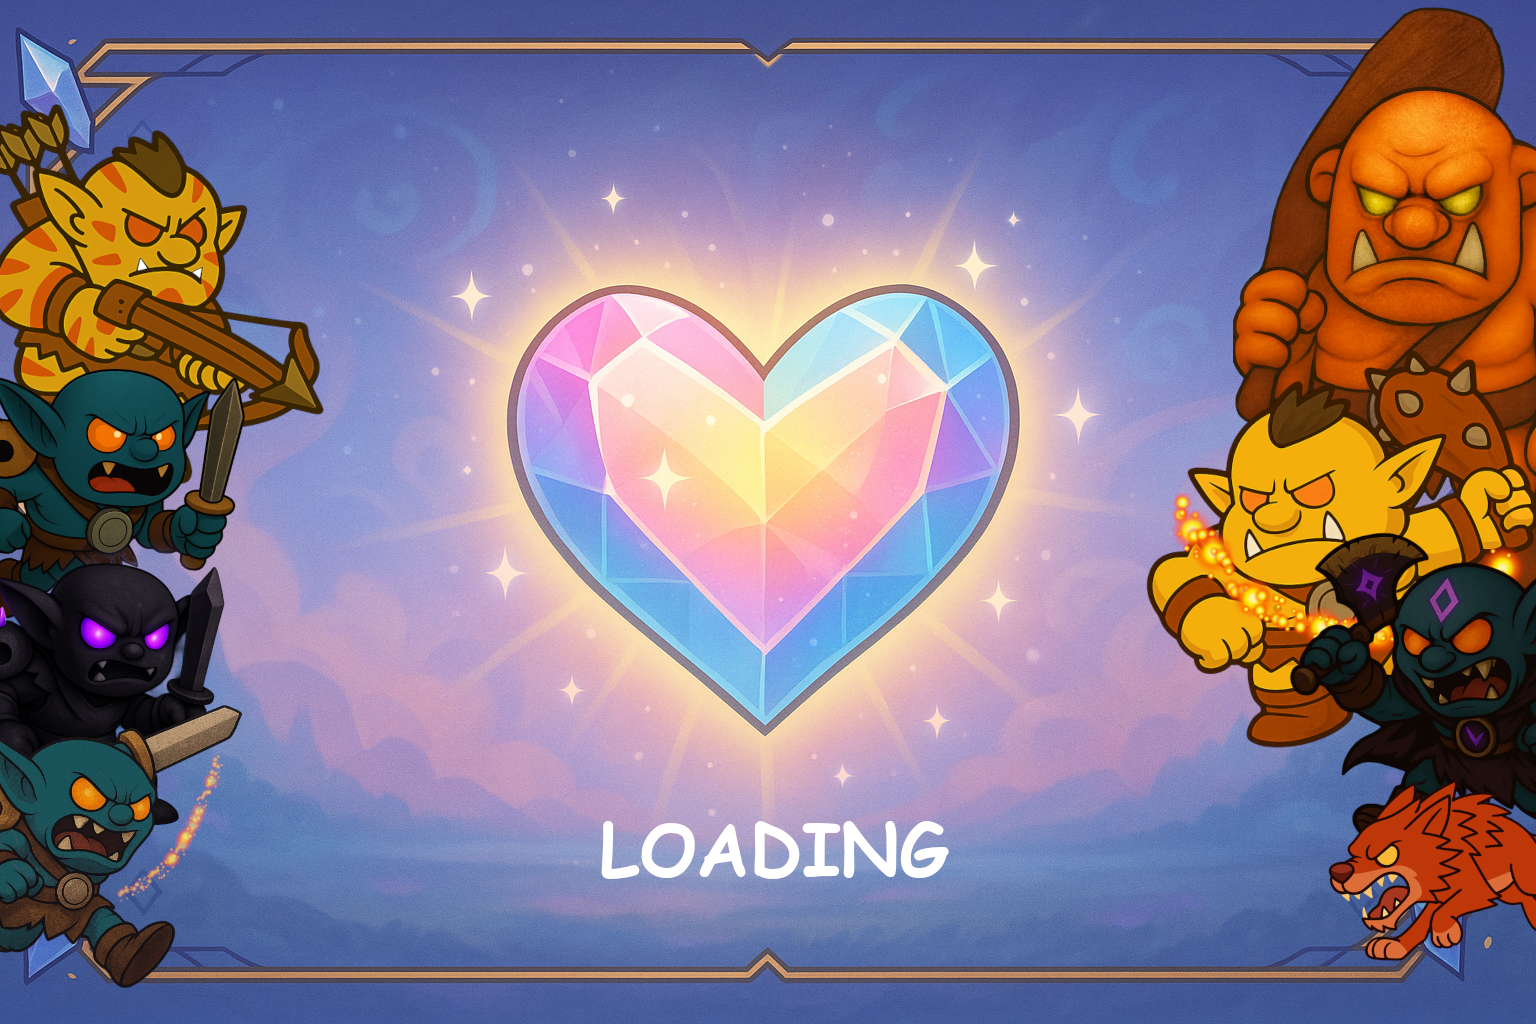
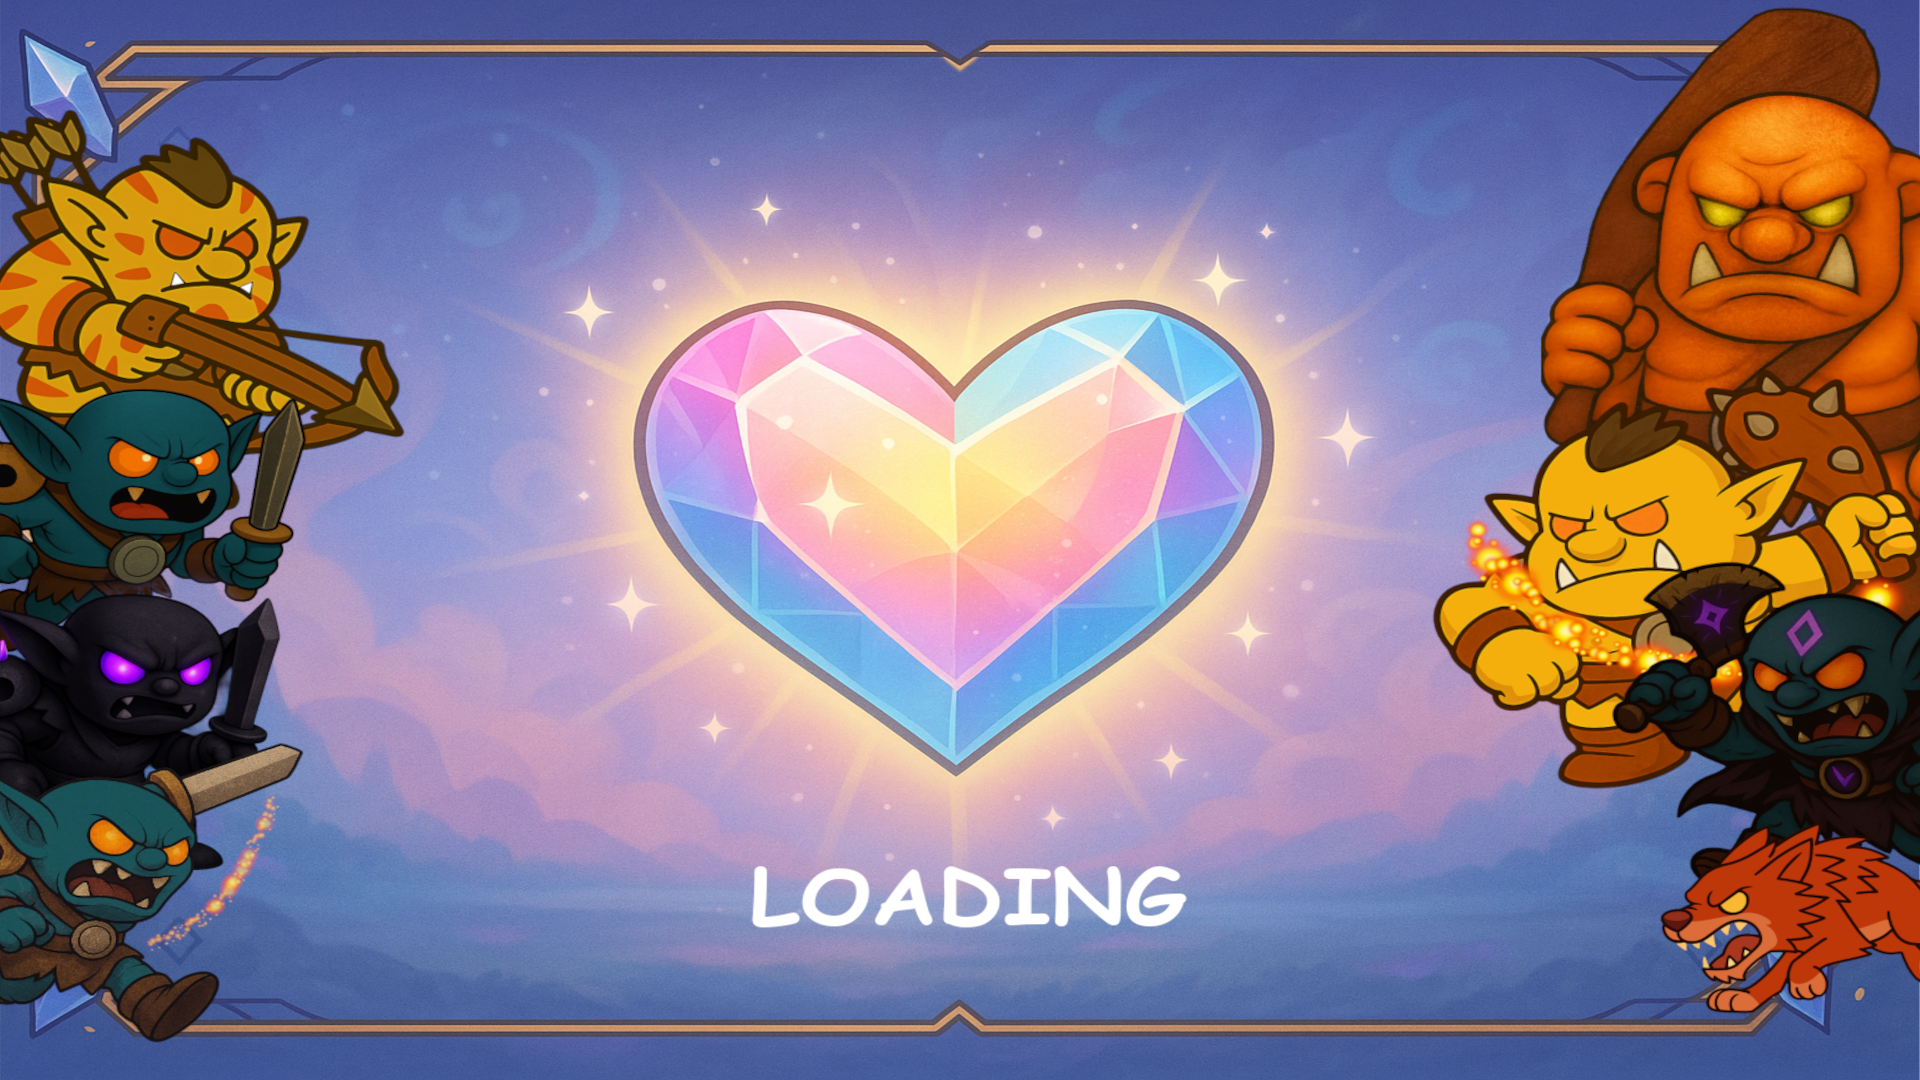
loading screen added

diff --git a/main.js b/main.js
@@ -50,6 +50,9 @@ export let gameActive = false;
 let lastTimestamp = 0;
 let accumulator = 0;
 const FIXED_DT = 1000 / 60;
+const MIN_LOADING_OVERLAY_MS = 2000;
+let loadingOverlayUsers = 0;
+const wait = (ms = 0) => new Promise((res) => setTimeout(res, ms));
 
 // ============================================================
 // 🎯 MAIN GAME LOOP
@@ -74,14 +77,49 @@ function gameLoop(timestamp) {
   window.__gameLoopID = requestAnimationFrame(gameLoop);
 }
 
-function showLoadingOverlay() {
-  const el = document.getElementById("game-loading-overlay");
-  if (el) el.style.display = "flex";
+function getLoadingOverlay() {
+  return document.getElementById("game-loading-overlay");
 }
 
-function hideLoadingOverlay() {
-  const el = document.getElementById("game-loading-overlay");
-  if (el) el.style.display = "none";
+export function showLoadingOverlay() {
+  loadingOverlayUsers += 1;
+  const overlay = getLoadingOverlay();
+  const startedAt = performance.now();
+
+  if (overlay) {
+    overlay.style.display = "flex";
+  }
+
+  return startedAt;
+}
+
+export async function hideLoadingOverlay(
+  startedAt = performance.now(),
+  minDuration = MIN_LOADING_OVERLAY_MS
+) {
+  const elapsed = performance.now() - startedAt;
+  if (elapsed < minDuration) {
+    await wait(minDuration - elapsed);
+  }
+
+  loadingOverlayUsers = Math.max(loadingOverlayUsers - 1, 0);
+
+  if (loadingOverlayUsers === 0) {
+    const overlay = getLoadingOverlay();
+    if (overlay) {
+      overlay.style.display = "none";
+    }
+  }
+}
+
+export async function withLoadingOverlay(task, minDuration = MIN_LOADING_OVERLAY_MS) {
+  const startedAt = showLoadingOverlay();
+
+  try {
+    return await task();
+  } finally {
+    await hideLoadingOverlay(startedAt, minDuration);
+  }
 }
 
 // ============================================================
@@ -122,20 +160,19 @@ function seedMagicSparkles() {
 // ============================================================
 
 export async function startGameWithPreload(mode = "new") {
-  showLoadingOverlay();
+  await withLoadingOverlay(async () => {
+    // 🔥 ensure preloadAllAssets() runs if not triggered yet
+    preloadAllAssets();
 
-  // 🔥 ensure preloadAllAssets() runs if not triggered yet
-  preloadAllAssets();
+    // 🔄 Wait until preload is fully done
+    while (!isPreloadComplete()) {
+      await wait(50);
+    }
 
-  // 🔄 Wait until preload is fully done
-  while (!isPreloadComplete()) {
-    await new Promise(res => setTimeout(res, 50));
-  }
+    // ⭐ Proceed to load actual map
+    await initGame(mode);
+  });
 
-  // ⭐ Proceed to load actual map
-  await initGame(mode);
-
-  hideLoadingOverlay();
   startGameplay();
 }
 

diff --git a/screenManagement/hub.js b/screenManagement/hub.js
@@ -23,7 +23,8 @@ import {
   gameActive,
   stopGameplay,
   fullNewGameReset,
-  startNewGameStory
+  startNewGameStory,
+  withLoadingOverlay
 } from "../main.js";
 
 import {
@@ -151,14 +152,16 @@ export function initHub() {
         gameState.profile.progress.currentMap = targetMap;
       }
 
-      showScreen("game-container");
+      await withLoadingOverlay(async () => {
+        showScreen("game-container");
 
-      const gameMod = await import("../core/game.js");
-      await gameMod.initGame("load");
+        const gameMod = await import("../core/game.js");
+        await gameMod.initGame("load");
 
-      applySnapshot(snap);
-      ensureSkin(gameState.player);
-      saveProfiles();
+        applySnapshot(snap);
+        ensureSkin(gameState.player);
+        saveProfiles();
+      });
 
       startGameplay?.();
   });
@@ -242,14 +245,16 @@ export function initHub() {
       ov.style.display = "none";
     }
 
-    showScreen("game-container");
+    await withLoadingOverlay(async () => {
+      showScreen("game-container");
 
-    const gameMod = await import("../core/game.js");
-    await gameMod.initGame("load");
+      const gameMod = await import("../core/game.js");
+      await gameMod.initGame("load");
 
-    applySnapshot(snap);
-    ensureSkin(gameState.player);
-    saveProfiles();
+      applySnapshot(snap);
+      ensureSkin(gameState.player);
+      saveProfiles();
+    });
 
     startGameplay?.();
   };

diff --git a/screenManagement/navbar.js b/screenManagement/navbar.js
@@ -41,7 +41,7 @@
 // ------------------------------------------------------------ 
 
 import { playFairySprinkle } from "../core/soundtrack.js";
-import { stopGameplay, resetGameplay, startGameplay } from "../main.js";
+import { stopGameplay, resetGameplay, startGameplay, withLoadingOverlay } from "../main.js";
 import { pauseGame, resumeGame, showOverlay, closeOverlay } from "./ui.js";
 import { renderSlots } from "../save/saveSlots.js";
 import { loadFromSlot, applySnapshot } from "../save/saveSystem.js";
@@ -273,12 +273,14 @@ async function handleInGameSlotClick(evt) {
   }
 
   // Re-init the game for the new map context, then apply snapshot
-  const gameMod = await import("../core/game.js");
-  await gameMod.initGame("load");
+  await withLoadingOverlay(async () => {
+    const gameMod = await import("../core/game.js");
+    await gameMod.initGame("load");
 
-  applySnapshot(snap);
-  ensureSkin(gameState.player);
-  saveProfiles();
+    applySnapshot(snap);
+    ensureSkin(gameState.player);
+    saveProfiles();
+  });
   startGameplay?.();
 
   const overlay = document.getElementById("overlay-save-game");

diff --git a/maps/maps.js b/maps/maps.js
@@ -17,7 +17,7 @@
 
 import { gameState, setCurrentMap, saveProfiles } from "../utils/gameState.js";
 import { showScreen } from "../screenManagement/screens.js";
-import { startGameplay } from "../main.js";
+import { startGameplay, withLoadingOverlay } from "../main.js";
 import { initGame } from "../core/game.js";
 import { applyMapSpawn } from "../core/game.js";
 import { resetCombatState } from "../core/game.js";
@@ -99,13 +99,13 @@ export function initMapSelect() {
         closeOverlay(ov);
       }
 
-      // 6⃣ Show game
-      showScreen("game-container");
+      // 6⃣ Show game + re-init under loading screen
+      await withLoadingOverlay(async () => {
+        showScreen("game-container");
+        await initGame();
+      });
 
-      // 7⃣ Full init of combat/map systems
-      await initGame();
-
-      // 8⃣ Start gameplay
+      // 7⃣ Start gameplay
       startGameplay();
     });
   });

diff --git a/index.html b/index.html
@@ -1153,23 +1153,8 @@
 
     </section> <!-- end game-container -->
 
-    <div id="game-loading-overlay" style="
-        position: fixed;
-        inset: 0;
-        background: rgba(0,0,0,0.45);
-        display: none;
-        align-items: center;
-        justify-content: center;
-        font-size: 26px;
-        color: white;
-        z-index: 999999;
-        backdrop-filter: blur(4px);
-        font-family: 'Comic Sans MS', sans-serif;">
-
-      <div>
-        <img src="./assets/images/backgrounds/loading_screen.png" id="game-loading-overlay">
-      </div>
-
+    <div id="game-loading-overlay" aria-hidden="true">
+      <img src="./assets/images/backgrounds/loading_screen.png" alt="Loading" class="game-loading-image">
     </div>
     
     <!-- ============================================================

diff --git a/css/main.css b/css/main.css
@@ -118,9 +118,30 @@ body {
 }
 
 #game-loading-overlay {
-  content: fill;
-  height: 100%;
-  width: 100%;
+  position: fixed;
+  inset: 0;
+  display: none;
+  align-items: center;
+  justify-content: center;
+  background: #05030a;
+  overflow: hidden;
+  z-index: 999999;
+}
+
+#game-loading-overlay::after {
+  content: "";
+  position: absolute;
+  inset: 0;
+  background: radial-gradient(circle at 50% 50%, rgba(0, 0, 0, 0.2), rgba(0, 0, 0, 0.65));
+  pointer-events: none;
+}
+
+.game-loading-image {
+  width: 100vw;
+  height: 100vh;
+  object-fit: cover;
+  max-width: none;
+  display: block;
 }
 
 /* ============================================================
